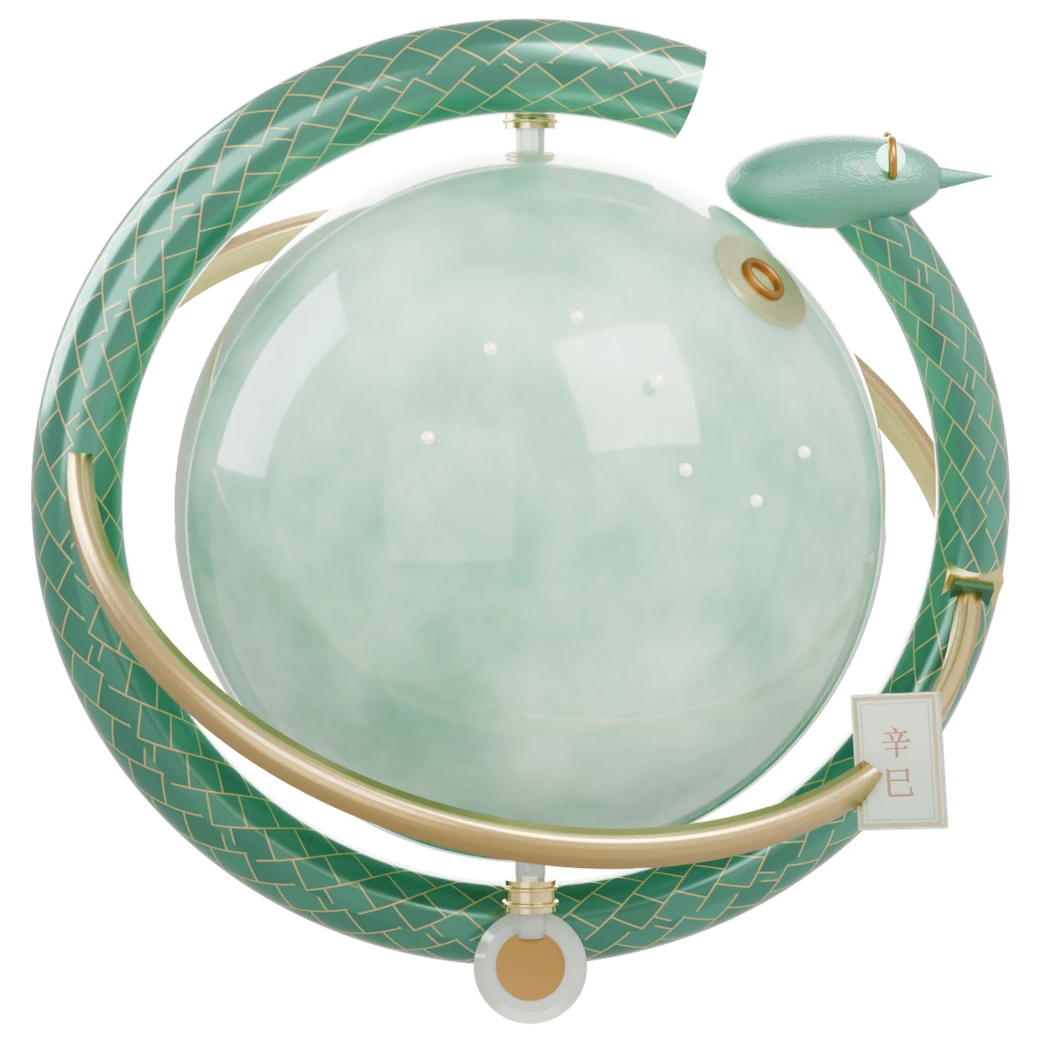
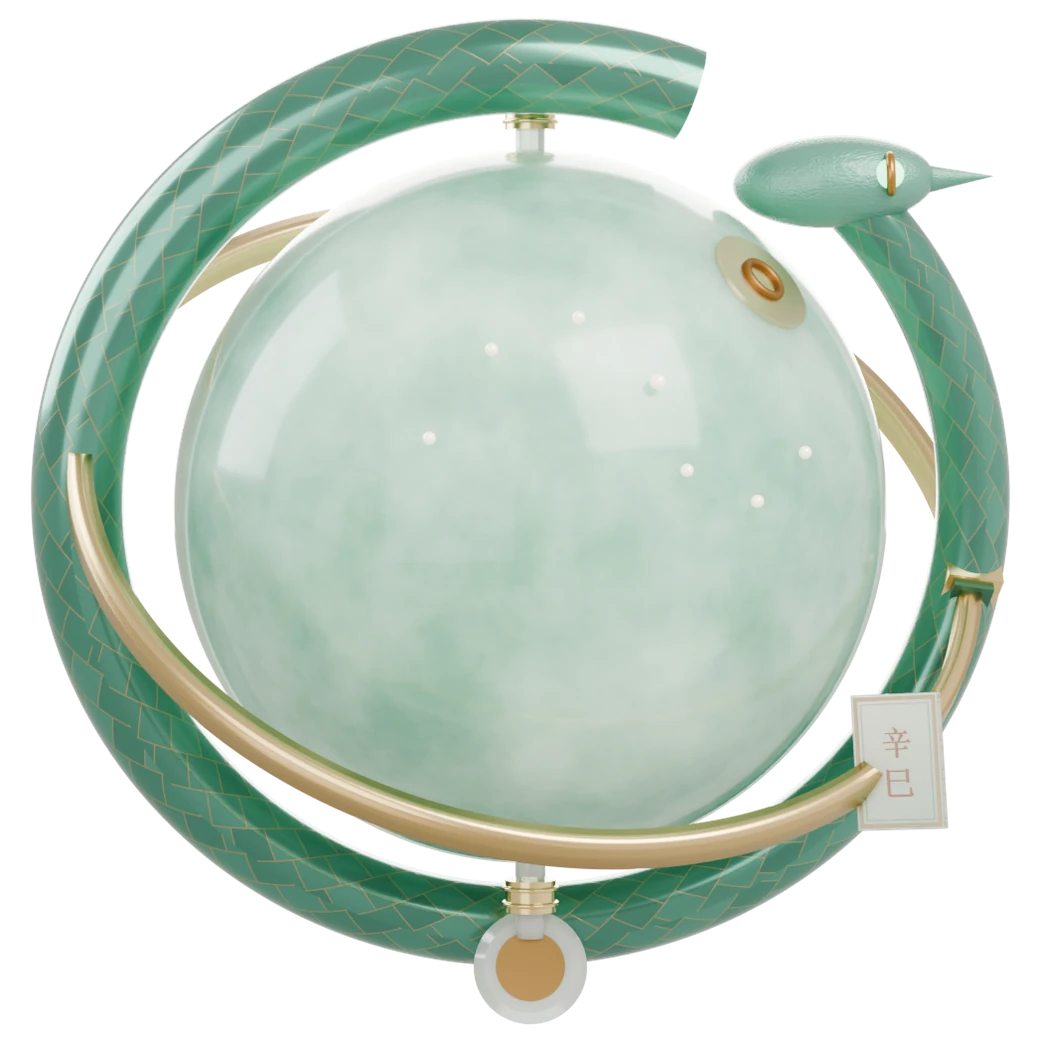
fix(jade): 蛇眼落到侧面、甲片缝压暗变细、球壳加磨砂，重渲首页主视觉

diff --git a/src/scripts/jade/build-jade.ts b/src/scripts/jade/build-jade.ts
@@ -207,7 +207,7 @@ export function buildJadeModel(options: { quality?: 'high' | 'low' } = {}): Jade
   const skullGeo = new THREE.SphereGeometry(0.152, hi ? 48 : 24, hi ? 36 : 18);
   const skull = new THREE.Mesh(skullGeo, bodyMat);
   // 蛇头不能是扁球：横向再拉长、竖向压薄、宽度收窄，吻部才有探出感
-  skull.scale.set(2.0, 0.88, 1.0);
+  skull.scale.set(1.85, 0.86, 0.98);
   skull.name = 'serpent-skull';
   head.add(skull);
 
@@ -255,7 +255,7 @@ export function buildJadeModel(options: { quality?: 'high' | 'low' } = {}): Jade
   for (const side of [1, -1]) {
     const eye = new THREE.Mesh(new THREE.SphereGeometry(0.042, 20, 16), eyeMat);
     eye.name = 'serpent-eye-' + (side > 0 ? 'l' : 'r');
-    eye.position.set(0.155, 0.064, 0.108 * side);
+    eye.position.set(0.150, 0.022, 0.112 * side);
     head.add(eye);
     const socket = new THREE.Mesh(
       new THREE.TorusGeometry(0.05, 0.013, 10, 24),

diff --git a/tools/blender/render-yuheng.py b/tools/blender/render-yuheng.py
@@ -74,7 +74,7 @@ def rep(name, base, rough, metal, trans=0.0, ior=1.45, coat=0.0, emit=None, emit
 
 # 参考图是暖白纸底上的青玉：玉必须浅、透、有内部散射，不能是深墨绿
 # 实心浅青玉：透射只留一点点做边缘水头，主体靠次表面散射表现"玉肉"，这样球心不会再透出背景的白。
-rep("mat-jade-shell", (0.30, 0.62, 0.48), 0.10, 0.0, trans=0.12, ior=1.55, coat=0.5, sss=0.9, sss_rad=(0.42,0.80,0.58), sss_scale=0.5)
+rep("mat-jade-shell", (0.30, 0.62, 0.48), 0.15, 0.0, trans=0.12, ior=1.55, coat=0.28, sss=0.9, sss_rad=(0.42,0.80,0.58), sss_scale=0.5)
 # 内核只作柔光核：强度过高时透过球壳形成边界生硬的中央白斑（本轮诊断已确认）
 rep("mat-kernel", (1.0, 0.95, 0.86), 0.62, 0.0, emit=(1.0, 0.88, 0.66), emit_str=2.8)
 rep("mat-serpent", (0.72, 0.54, 0.24), 0.20, 0.75, coat=0.35)
@@ -85,7 +85,7 @@ def serpent_plates():
     out = [n for n in nt.nodes if n.type == 'OUTPUT_MATERIAL'][0]
     brick = nt.nodes.new('ShaderNodeTexBrick')
     brick.inputs['Scale'].default_value = 1.6
-    brick.inputs['Mortar Size'].default_value = 0.014
+    brick.inputs['Mortar Size'].default_value = 0.008
     brick.inputs['Mortar Smooth'].default_value = 0.2
     brick.inputs['Bias'].default_value = 0.0
     brick.inputs['Brick Width'].default_value = 0.5
@@ -93,7 +93,7 @@ def serpent_plates():
     # 甲片取深青玉，砖缝取金铜：远看是金铜蛇裹青玉甲，近看有鳞片分界
     brick.inputs['Color1'].default_value = (0.10, 0.30, 0.23, 1)
     brick.inputs['Color2'].default_value = (0.07, 0.22, 0.17, 1)
-    brick.inputs['Mortar'].default_value = (0.66, 0.48, 0.20, 1)
+    brick.inputs['Mortar'].default_value = (0.40, 0.30, 0.14, 1)
     uvc = nt.nodes.new('ShaderNodeTexCoord')
     # 砖格旋转 45° 成菱形：横竖方砖读起来是"砖墙"，菱形才是覆瓦甲片
     mp = nt.nodes.new('ShaderNodeMapping')
